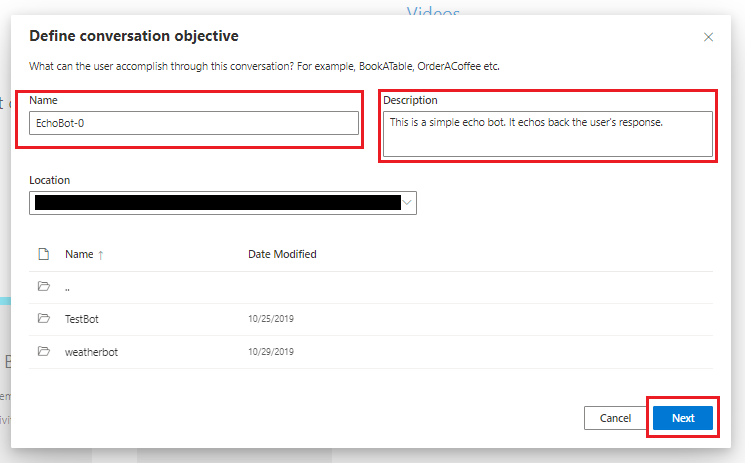
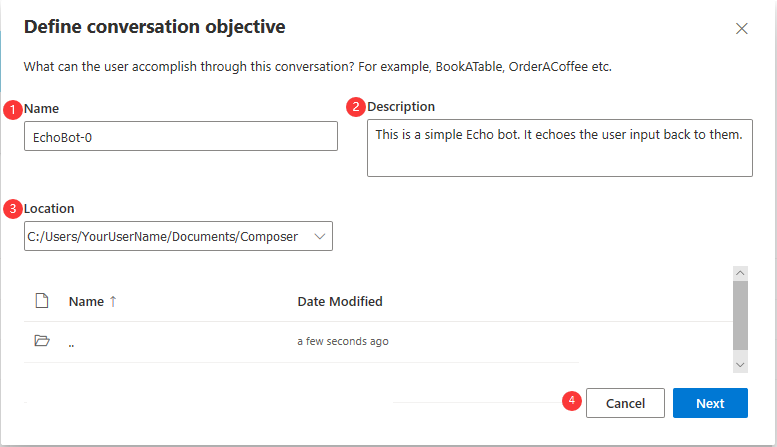
Updates to tutorial-create-echobot.md

diff --git a/docs/tutorial-create-echobot.md b/docs/tutorial-create-echobot.md
@@ -1,33 +1,36 @@
-# Create an echo bot using Bot Framework Composer
-In this quickstart we will walk you through how to create an echo bot using the Bot Framework Composer **Echo Bot** template, and then test your bot in the Emulator.
+# Create an echo bot using the Bot Framework Composer
+In this quickstart you will learn how to create an echo bot using the Bot Framework Composer **Echo Bot** template, and test it in the Emulator.
 
 ## Prerequisites
-All of the prerequisites for creating an echo bot are included in [Set up Bot Framework Composer with Yarn](./setup-yarn.md).
+All of the prerequisites for creating an echo bot are included in [Set up the Bot Framework Composer with Yarn](./setup-yarn.md).
 
 ## Creating an echo bot
-1. Follow the instructions in [Set up Bot Framework Composer with Yarn](./setup-yarn.md) to get Composer running. 
+1. Follow the instructions in [Set up the Bot Framework Composer with Yarn](./setup-yarn.md) to get Composer running. 
 After opening Composer in a browser click the **Echo Bot** button at the top of the Examples list on the homepage.
 
-![homepage new button](./media/tutorial-echobot/echo-new.png)
+    ![homepage new button](./media/tutorial-echobot/echo-new.png)
 
-2. Fill in the **Name** as you want or keep the default name `EchoBot-0` and copy `This is a simple echo bot. It echoes back the user's response.` to the **Description** box. Choose where you want to save the bot or keep the default location and click **Next**.
+2. The **Define conversation objective** form:
+    1. Enter the name for your bot in the **Name**, or keep the default name `EchoBot-0`.
+    2. Enter "_This is a simple Echo bot. It echoes the user input back to them._" in the **Description** field. 
+    3. Select the location to save your bot.
+    4. Save your changes and create your echo bot by selecting **Next**.
 
-![echo bot details](./media/tutorial-echobot/tutorial-echo-setup.png)
+        ![echo bot details](./media/tutorial-echobot/tutorial-echo-setup.png)
 
-3. You will now see your bot's main dialog. In the properties panel on the right click the dropdown under **Recognizer Type** and select `None`. Since this is a simple echo bot you don't need to use any [recognizers](./concept-events-and-triggers-draft.md#regular-expression-recognizer#regular-expression-recognizer) or [LUIS models](https://aka.ms/what-is-luis).
+3. You will now see your bot's main dialog. In the _properties panel_ on the right side of the Composer screen you will notice that the **Recognizer Type** is set to **None** by default. Since this is a simple echo bot you don't need to use any [recognizers](./concept-events-and-triggers-draft.md#regular-expression-recognizer#regular-expression-recognizer) or [LUIS models](https://aka.ms/what-is-luis), so leave it set to none.
 
-![set recognizer type](./media/tutorial-echobot/select-none-recognizer.gif)
+    ![set recognizer type](./media/tutorial-echobot/recognizer-none.png)
 
-4. You're now ready to start and test your bot. Click **Start Bot** in the top right. You will then see the **Test in Emulator** button show up. Click **Test in Emulator** and Bot Framework Emulator should start.
+4. You can now test your bot in the Bot Framework Emulator by selecting **Start Bot** in the top right side of the Composer screen then **Test in Emulator**.
 
-![start bot](./media/tutorial-echobot/start-bot.gif)
+    ![start bot](./media/tutorial-echobot/start-bot.gif)
 
-5. Type anything in the Emulator to have the bot echo back your response.
+5. Anything you type in the Emulator should be echoed back to you.
 
-![test in emulator](./media/tutorial-echobot/test-emulator.gif)
+    ![test in emulator](./media/tutorial-echobot/test-emulator.gif)
 
 You've successfully created an echo bot!  
 
 ## Next Steps
 Create a [weather bot](tutorial/bot-tutorial-introduction.md) using Composer.
-
